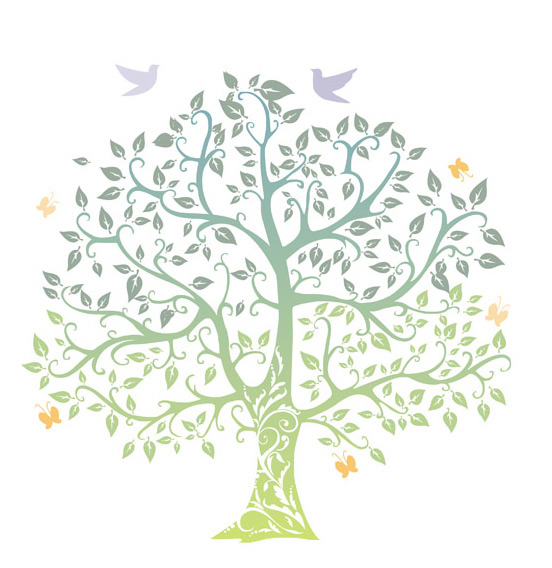
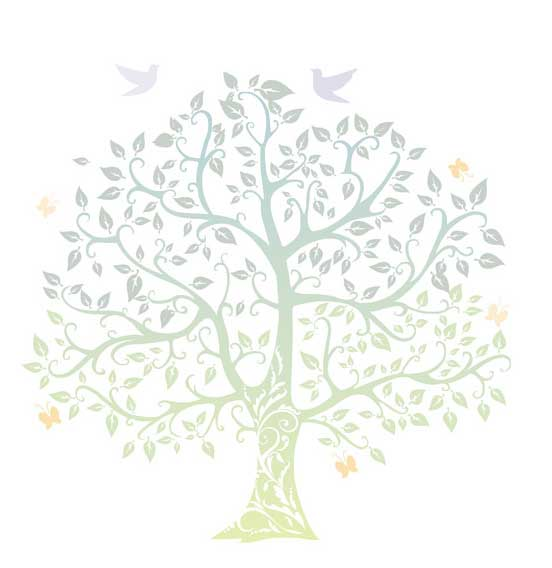
调整后记背景图片

diff --git a/javascript/bootstrap.min.js b/javascript/bootstrap.min.js
@@ -1,0 +1,7 @@
+/*!
+ * Bootstrap v3.3.6 (http://getbootstrap.com)
+ * Copyright 2011-2015 Twitter, Inc.
+ * Licensed under the MIT license
+ */
+if("undefined"==typeof jQuery)throw new Error("Bootstrap's JavaScript requires jQuery");+function(a){"use strict";var b=a.fn.jquery.split(" ")[0].split(".");if(b[0]<2&&b[1]<9||1==b[0]&&9==b[1]&&b[2]<1||b[0]>2)throw new Error("Bootstrap's JavaScript requires jQuery version 1.9.1 or higher, but lower than version 3")}(jQuery),+function(a){"use strict";function b(){var a=document.createElement("bootstrap"),b={WebkitTransition:"webkitTransitionEnd",MozTransition:"transitionend",OTransition:"oTransitionEnd otransitionend",transition:"transitionend"};for(var c in b)if(void 0!==a.style[c])return{end:b[c]};return!1}a.fn.emulateTransitionEnd=function(b){var c=!1,d=this;a(this).one("bsTransitionEnd",function(){c=!0});var e=function(){c||a(d).trigger(a.support.transition.end)};return setTimeout(e,b),this},a(function(){a.support.transition=b(),a.support.transition&&(a.event.special.bsTransitionEnd={bindType:a.support.transition.end,delegateType:a.support.transition.end,handle:function(b){return a(b.target).is(this)?b.handleObj.handler.apply(this,arguments):void 0}})})}(jQuery),+function(a){"use strict";function b(b){return this.each(function(){var c=a(this),e=c.data("bs.alert");e||c.data("bs.alert",e=new d(this)),"string"==typeof b&&e[b].call(c)})}var c='[data-dismiss="alert"]',d=function(b){a(b).on("click",c,this.close)};d.VERSION="3.3.6",d.TRANSITION_DURATION=150,d.prototype.close=function(b){function c(){g.detach().trigger("closed.bs.alert").remove()}var e=a(this),f=e.attr("data-target");f||(f=e.attr("href"),f=f&&f.replace(/.*(?=#[^\s]*$)/,""));var g=a(f);b&&b.preventDefault(),g.length||(g=e.closest(".alert")),g.trigger(b=a.Event("close.bs.alert")),b.isDefaultPrevented()||(g.removeClass("in"),a.support.transition&&g.hasClass("fade")?g.one("bsTransitionEnd",c).emulateTransitionEnd(d.TRANSITION_DURATION):c())};var e=a.fn.alert;a.fn.alert=b,a.fn.alert.Constructor=d,a.fn.alert.noConflict=function(){return a.fn.alert=e,this},a(document).on("click.bs.alert.data-api",c,d.prototype.close)}(jQuery),+function(a){"use strict";function b(b){return this.each(function(){var d=a(this),e=d.data("bs.button"),f="object"==typeof b&&b;e||d.data("bs.button",e=new c(this,f)),"toggle"==b?e.toggle():b&&e.setState(b)})}var c=function(b,d){this.$element=a(b),this.options=a.extend({},c.DEFAULTS,d),this.isLoading=!1};c.VERSION="3.3.6",c.DEFAULTS={loadingText:"loading..."},c.prototype.setState=function(b){var c="disabled",d=this.$element,e=d.is("input")?"val":"html",f=d.data();b+="Text",null==f.resetText&&d.data("resetText",d[e]()),setTimeout(a.proxy(function(){d[e](null==f[b]?this.options[b]:f[b]),"loadingText"==b?(this.isLoading=!0,d.addClass(c).attr(c,c)):this.isLoading&&(this.isLoading=!1,d.removeClass(c).removeAttr(c))},this),0)},c.prototype.toggle=function(){var a=!0,b=this.$element.closest('[data-toggle="buttons"]');if(b.length){var c=this.$element.find("input");"radio"==c.prop("type")?(c.prop("checked")&&(a=!1),b.find(".active").removeClass("active"),this.$element.addClass("active")):"checkbox"==c.prop("type")&&(c.prop("checked")!==this.$element.hasClass("active")&&(a=!1),this.$element.toggleClass("active")),c.prop("checked",this.$element.hasClass("active")),a&&c.trigger("change")}else this.$element.attr("aria-pressed",!this.$element.hasClass("active")),this.$element.toggleClass("active")};var d=a.fn.button;a.fn.button=b,a.fn.button.Constructor=c,a.fn.button.noConflict=function(){return a.fn.button=d,this},a(document).on("click.bs.button.data-api",'[data-toggle^="button"]',function(c){var d=a(c.target);d.hasClass("btn")||(d=d.closest(".btn")),b.call(d,"toggle"),a(c.target).is('input[type="radio"]')||a(c.target).is('input[type="checkbox"]')||c.preventDefault()}).on("focus.bs.button.data-api blur.bs.button.data-api",'[data-toggle^="button"]',function(b){a(b.target).closest(".btn").toggleClass("focus",/^focus(in)?$/.test(b.type))})}(jQuery),+function(a){"use strict";function b(b){return this.each(function(){var d=a(this),e=d.data("bs.carousel"),f=a.extend({},c.DEFAULTS,d.data(),"object"==typeof b&&b),g="string"==typeof b?b:f.slide;e||d.data("bs.carousel",e=new c(this,f)),"number"==typeof b?e.to(b):g?e[g]():f.interval&&e.pause().cycle()})}var c=function(b,c){this.$element=a(b),this.$indicators=this.$element.find(".carousel-indicators"),this.options=c,this.paused=null,this.sliding=null,this.interval=null,this.$active=null,this.$items=null,this.options.keyboard&&this.$element.on("keydown.bs.carousel",a.proxy(this.keydown,this)),"hover"==this.options.pause&&!("ontouchstart"in document.documentElement)&&this.$element.on("mouseenter.bs.carousel",a.proxy(this.pause,this)).on("mouseleave.bs.carousel",a.proxy(this.cycle,this))};c.VERSION="3.3.6",c.TRANSITION_DURATION=600,c.DEFAULTS={interval:5e3,pause:"hover",wrap:!0,keyboard:!0},c.prototype.keydown=function(a){if(!/input|textarea/i.test(a.target.tagName)){switch(a.which){case 37:this.prev();break;case 39:this.next();break;default:return}a.preventDefault()}},c.prototype.cycle=function(b){return b||(this.paused=!1),this.interval&&clearInterval(this.interval),this.options.interval&&!this.paused&&(this.interval=setInterval(a.proxy(this.next,this),this.options.interval)),this},c.prototype.getItemIndex=function(a){return this.$items=a.parent().children(".item"),this.$items.index(a||this.$active)},c.prototype.getItemForDirection=function(a,b){var c=this.getItemIndex(b),d="prev"==a&&0===c||"next"==a&&c==this.$items.length-1;if(d&&!this.options.wrap)return b;var e="prev"==a?-1:1,f=(c+e)%this.$items.length;return this.$items.eq(f)},c.prototype.to=function(a){var b=this,c=this.getItemIndex(this.$active=this.$element.find(".item.active"));return a>this.$items.length-1||0>a?void 0:this.sliding?this.$element.one("slid.bs.carousel",function(){b.to(a)}):c==a?this.pause().cycle():this.slide(a>c?"next":"prev",this.$items.eq(a))},c.prototype.pause=function(b){return b||(this.paused=!0),this.$element.find(".next, .prev").length&&a.support.transition&&(this.$element.trigger(a.support.transition.end),this.cycle(!0)),this.interval=clearInterval(this.interval),this},c.prototype.next=function(){return this.sliding?void 0:this.slide("next")},c.prototype.prev=function(){return this.sliding?void 0:this.slide("prev")},c.prototype.slide=function(b,d){var e=this.$element.find(".item.active"),f=d||this.getItemForDirection(b,e),g=this.interval,h="next"==b?"left":"right",i=this;if(f.hasClass("active"))return this.sliding=!1;var j=f[0],k=a.Event("slide.bs.carousel",{relatedTarget:j,direction:h});if(this.$element.trigger(k),!k.isDefaultPrevented()){if(this.sliding=!0,g&&this.pause(),this.$indicators.length){this.$indicators.find(".active").removeClass("active");var l=a(this.$indicators.children()[this.getItemIndex(f)]);l&&l.addClass("active")}var m=a.Event("slid.bs.carousel",{relatedTarget:j,direction:h});return a.support.transition&&this.$element.hasClass("slide")?(f.addClass(b),f[0].offsetWidth,e.addClass(h),f.addClass(h),e.one("bsTransitionEnd",function(){f.removeClass([b,h].join(" ")).addClass("active"),e.removeClass(["active",h].join(" ")),i.sliding=!1,setTimeout(function(){i.$element.trigger(m)},0)}).emulateTransitionEnd(c.TRANSITION_DURATION)):(e.removeClass("active"),f.addClass("active"),this.sliding=!1,this.$element.trigger(m)),g&&this.cycle(),this}};var d=a.fn.carousel;a.fn.carousel=b,a.fn.carousel.Constructor=c,a.fn.carousel.noConflict=function(){return a.fn.carousel=d,this};var e=function(c){var d,e=a(this),f=a(e.attr("data-target")||(d=e.attr("href"))&&d.replace(/.*(?=#[^\s]+$)/,""));if(f.hasClass("carousel")){var g=a.extend({},f.data(),e.data()),h=e.attr("data-slide-to");h&&(g.interval=!1),b.call(f,g),h&&f.data("bs.carousel").to(h),c.preventDefault()}};a(document).on("click.bs.carousel.data-api","[data-slide]",e).on("click.bs.carousel.data-api","[data-slide-to]",e),a(window).on("load",function(){a('[data-ride="carousel"]').each(function(){var c=a(this);b.call(c,c.data())})})}(jQuery),+function(a){"use strict";function b(b){var c,d=b.attr("data-target")||(c=b.attr("href"))&&c.replace(/.*(?=#[^\s]+$)/,"");return a(d)}function c(b){return this.each(function(){var c=a(this),e=c.data("bs.collapse"),f=a.extend({},d.DEFAULTS,c.data(),"object"==typeof b&&b);!e&&f.toggle&&/show|hide/.test(b)&&(f.toggle=!1),e||c.data("bs.collapse",e=new d(this,f)),"string"==typeof b&&e[b]()})}var d=function(b,c){this.$element=a(b),this.options=a.extend({},d.DEFAULTS,c),this.$trigger=a('[data-toggle="collapse"][href="#'+b.id+'"],[data-toggle="collapse"][data-target="#'+b.id+'"]'),this.transitioning=null,this.options.parent?this.$parent=this.getParent():this.addAriaAndCollapsedClass(this.$element,this.$trigger),this.options.toggle&&this.toggle()};d.VERSION="3.3.6",d.TRANSITION_DURATION=350,d.DEFAULTS={toggle:!0},d.prototype.dimension=function(){var a=this.$element.hasClass("width");return a?"width":"height"},d.prototype.show=function(){if(!this.transitioning&&!this.$element.hasClass("in")){var b,e=this.$parent&&this.$parent.children(".panel").children(".in, .collapsing");if(!(e&&e.length&&(b=e.data("bs.collapse"),b&&b.transitioning))){var f=a.Event("show.bs.collapse");if(this.$element.trigger(f),!f.isDefaultPrevented()){e&&e.length&&(c.call(e,"hide"),b||e.data("bs.collapse",null));var g=this.dimension();this.$element.removeClass("collapse").addClass("collapsing")[g](0).attr("aria-expanded",!0),this.$trigger.removeClass("collapsed").attr("aria-expanded",!0),this.transitioning=1;var h=function(){this.$element.removeClass("collapsing").addClass("collapse in")[g](""),this.transitioning=0,this.$element.trigger("shown.bs.collapse")};if(!a.support.transition)return h.call(this);var i=a.camelCase(["scroll",g].join("-"));this.$element.one("bsTransitionEnd",a.proxy(h,this)).emulateTransitionEnd(d.TRANSITION_DURATION)[g](this.$element[0][i])}}}},d.prototype.hide=function(){if(!this.transitioning&&this.$element.hasClass("in")){var b=a.Event("hide.bs.collapse");if(this.$element.trigger(b),!b.isDefaultPrevented()){var c=this.dimension();this.$element[c](this.$element[c]())[0].offsetHeight,this.$element.addClass("collapsing").removeClass("collapse in").attr("aria-expanded",!1),this.$trigger.addClass("collapsed").attr("aria-expanded",!1),this.transitioning=1;var e=function(){this.transitioning=0,this.$element.removeClass("collapsing").addClass("collapse").trigger("hidden.bs.collapse")};return a.support.transition?void this.$element[c](0).one("bsTransitionEnd",a.proxy(e,this)).emulateTransitionEnd(d.TRANSITION_DURATION):e.call(this)}}},d.prototype.toggle=function(){this[this.$element.hasClass("in")?"hide":"show"]()},d.prototype.getParent=function(){return a(this.options.parent).find('[data-toggle="collapse"][data-parent="'+this.options.parent+'"]').each(a.proxy(function(c,d){var e=a(d);this.addAriaAndCollapsedClass(b(e),e)},this)).end()},d.prototype.addAriaAndCollapsedClass=function(a,b){var c=a.hasClass("in");a.attr("aria-expanded",c),b.toggleClass("collapsed",!c).attr("aria-expanded",c)};var e=a.fn.collapse;a.fn.collapse=c,a.fn.collapse.Constructor=d,a.fn.collapse.noConflict=function(){return a.fn.collapse=e,this},a(document).on("click.bs.collapse.data-api",'[data-toggle="collapse"]',function(d){var e=a(this);e.attr("data-target")||d.preventDefault();var f=b(e),g=f.data("bs.collapse"),h=g?"toggle":e.data();c.call(f,h)})}(jQuery),+function(a){"use strict";function b(b){var c=b.attr("data-target");c||(c=b.attr("href"),c=c&&/#[A-Za-z]/.test(c)&&c.replace(/.*(?=#[^\s]*$)/,""));var d=c&&a(c);return d&&d.length?d:b.parent()}function c(c){c&&3===c.which||(a(e).remove(),a(f).each(function(){var d=a(this),e=b(d),f={relatedTarget:this};e.hasClass("open")&&(c&&"click"==c.type&&/input|textarea/i.test(c.target.tagName)&&a.contains(e[0],c.target)||(e.trigger(c=a.Event("hide.bs.dropdown",f)),c.isDefaultPrevented()||(d.attr("aria-expanded","false"),e.removeClass("open").trigger(a.Event("hidden.bs.dropdown",f)))))}))}function d(b){return this.each(function(){var c=a(this),d=c.data("bs.dropdown");d||c.data("bs.dropdown",d=new g(this)),"string"==typeof b&&d[b].call(c)})}var e=".dropdown-backdrop",f='[data-toggle="dropdown"]',g=function(b){a(b).on("click.bs.dropdown",this.toggle)};g.VERSION="3.3.6",g.prototype.toggle=function(d){var e=a(this);if(!e.is(".disabled, :disabled")){var f=b(e),g=f.hasClass("open");if(c(),!g){"ontouchstart"in document.documentElement&&!f.closest(".navbar-nav").length&&a(document.createElement("div")).addClass("dropdown-backdrop").insertAfter(a(this)).on("click",c);var h={relatedTarget:this};if(f.trigger(d=a.Event("show.bs.dropdown",h)),d.isDefaultPrevented())return;e.trigger("focus").attr("aria-expanded","true"),f.toggleClass("open").trigger(a.Event("shown.bs.dropdown",h))}return!1}},g.prototype.keydown=function(c){if(/(38|40|27|32)/.test(c.which)&&!/input|textarea/i.test(c.target.tagName)){var d=a(this);if(c.preventDefault(),c.stopPropagation(),!d.is(".disabled, :disabled")){var e=b(d),g=e.hasClass("open");if(!g&&27!=c.which||g&&27==c.which)return 27==c.which&&e.find(f).trigger("focus"),d.trigger("click");var h=" li:not(.disabled):visible a",i=e.find(".dropdown-menu"+h);if(i.length){var j=i.index(c.target);38==c.which&&j>0&&j--,40==c.which&&j<i.length-1&&j++,~j||(j=0),i.eq(j).trigger("focus")}}}};var h=a.fn.dropdown;a.fn.dropdown=d,a.fn.dropdown.Constructor=g,a.fn.dropdown.noConflict=function(){return a.fn.dropdown=h,this},a(document).on("click.bs.dropdown.data-api",c).on("click.bs.dropdown.data-api",".dropdown form",function(a){a.stopPropagation()}).on("click.bs.dropdown.data-api",f,g.prototype.toggle).on("keydown.bs.dropdown.data-api",f,g.prototype.keydown).on("keydown.bs.dropdown.data-api",".dropdown-menu",g.prototype.keydown)}(jQuery),+function(a){"use strict";function b(b,d){return this.each(function(){var e=a(this),f=e.data("bs.modal"),g=a.extend({},c.DEFAULTS,e.data(),"object"==typeof b&&b);f||e.data("bs.modal",f=new c(this,g)),"string"==typeof b?f[b](d):g.show&&f.show(d)})}var c=function(b,c){this.options=c,this.$body=a(document.body),this.$element=a(b),this.$dialog=this.$element.find(".modal-dialog"),this.$backdrop=null,this.isShown=null,this.originalBodyPad=null,this.scrollbarWidth=0,this.ignoreBackdropClick=!1,this.options.remote&&this.$element.find(".modal-content").load(this.options.remote,a.proxy(function(){this.$element.trigger("loaded.bs.modal")},this))};c.VERSION="3.3.6",c.TRANSITION_DURATION=300,c.BACKDROP_TRANSITION_DURATION=150,c.DEFAULTS={backdrop:!0,keyboard:!0,show:!0},c.prototype.toggle=function(a){return this.isShown?this.hide():this.show(a)},c.prototype.show=function(b){var d=this,e=a.Event("show.bs.modal",{relatedTarget:b});this.$element.trigger(e),this.isShown||e.isDefaultPrevented()||(this.isShown=!0,this.checkScrollbar(),this.setScrollbar(),this.$body.addClass("modal-open"),this.escape(),this.resize(),this.$element.on("click.dismiss.bs.modal",'[data-dismiss="modal"]',a.proxy(this.hide,this)),this.$dialog.on("mousedown.dismiss.bs.modal",function(){d.$element.one("mouseup.dismiss.bs.modal",function(b){a(b.target).is(d.$element)&&(d.ignoreBackdropClick=!0)})}),this.backdrop(function(){var e=a.support.transition&&d.$element.hasClass("fade");d.$element.parent().length||d.$element.appendTo(d.$body),d.$element.show().scrollTop(0),d.adjustDialog(),e&&d.$element[0].offsetWidth,d.$element.addClass("in"),d.enforceFocus();var f=a.Event("shown.bs.modal",{relatedTarget:b});e?d.$dialog.one("bsTransitionEnd",function(){d.$element.trigger("focus").trigger(f)}).emulateTransitionEnd(c.TRANSITION_DURATION):d.$element.trigger("focus").trigger(f)}))},c.prototype.hide=function(b){b&&b.preventDefault(),b=a.Event("hide.bs.modal"),this.$element.trigger(b),this.isShown&&!b.isDefaultPrevented()&&(this.isShown=!1,this.escape(),this.resize(),a(document).off("focusin.bs.modal"),this.$element.removeClass("in").off("click.dismiss.bs.modal").off("mouseup.dismiss.bs.modal"),this.$dialog.off("mousedown.dismiss.bs.modal"),a.support.transition&&this.$element.hasClass("fade")?this.$element.one("bsTransitionEnd",a.proxy(this.hideModal,this)).emulateTransitionEnd(c.TRANSITION_DURATION):this.hideModal())},c.prototype.enforceFocus=function(){a(document).off("focusin.bs.modal").on("focusin.bs.modal",a.proxy(function(a){this.$element[0]===a.target||this.$element.has(a.target).length||this.$element.trigger("focus")},this))},c.prototype.escape=function(){this.isShown&&this.options.keyboard?this.$element.on("keydown.dismiss.bs.modal",a.proxy(function(a){27==a.which&&this.hide()},this)):this.isShown||this.$element.off("keydown.dismiss.bs.modal")},c.prototype.resize=function(){this.isShown?a(window).on("resize.bs.modal",a.proxy(this.handleUpdate,this)):a(window).off("resize.bs.modal")},c.prototype.hideModal=function(){var a=this;this.$element.hide(),this.backdrop(function(){a.$body.removeClass("modal-open"),a.resetAdjustments(),a.resetScrollbar(),a.$element.trigger("hidden.bs.modal")})},c.prototype.removeBackdrop=function(){this.$backdrop&&this.$backdrop.remove(),this.$backdrop=null},c.prototype.backdrop=function(b){var d=this,e=this.$element.hasClass("fade")?"fade":"";if(this.isShown&&this.options.backdrop){var f=a.support.transition&&e;if(this.$backdrop=a(document.createElement("div")).addClass("modal-backdrop "+e).appendTo(this.$body),this.$element.on("click.dismiss.bs.modal",a.proxy(function(a){return this.ignoreBackdropClick?void(this.ignoreBackdropClick=!1):void(a.target===a.currentTarget&&("static"==this.options.backdrop?this.$element[0].focus():this.hide()))},this)),f&&this.$backdrop[0].offsetWidth,this.$backdrop.addClass("in"),!b)return;f?this.$backdrop.one("bsTransitionEnd",b).emulateTransitionEnd(c.BACKDROP_TRANSITION_DURATION):b()}else if(!this.isShown&&this.$backdrop){this.$backdrop.removeClass("in");var g=function(){d.removeBackdrop(),b&&b()};a.support.transition&&this.$element.hasClass("fade")?this.$backdrop.one("bsTransitionEnd",g).emulateTransitionEnd(c.BACKDROP_TRANSITION_DURATION):g()}else b&&b()},c.prototype.handleUpdate=function(){this.adjustDialog()},c.prototype.adjustDialog=function(){var a=this.$element[0].scrollHeight>document.documentElement.clientHeight;this.$element.css({paddingLeft:!this.bodyIsOverflowing&&a?this.scrollbarWidth:"",paddingRight:this.bodyIsOverflowing&&!a?this.scrollbarWidth:""})},c.prototype.resetAdjustments=function(){this.$element.css({paddingLeft:"",paddingRight:""})},c.prototype.checkScrollbar=function(){var a=window.innerWidth;if(!a){var b=document.documentElement.getBoundingClientRect();a=b.right-Math.abs(b.left)}this.bodyIsOverflowing=document.body.clientWidth<a,this.scrollbarWidth=this.measureScrollbar()},c.prototype.setScrollbar=function(){var a=parseInt(this.$body.css("padding-right")||0,10);this.originalBodyPad=document.body.style.paddingRight||"",this.bodyIsOverflowing&&this.$body.css("padding-right",a+this.scrollbarWidth)},c.prototype.resetScrollbar=function(){this.$body.css("padding-right",this.originalBodyPad)},c.prototype.measureScrollbar=function(){var a=document.createElement("div");a.className="modal-scrollbar-measure",this.$body.append(a);var b=a.offsetWidth-a.clientWidth;return this.$body[0].removeChild(a),b};var d=a.fn.modal;a.fn.modal=b,a.fn.modal.Constructor=c,a.fn.modal.noConflict=function(){return a.fn.modal=d,this},a(document).on("click.bs.modal.data-api",'[data-toggle="modal"]',function(c){var d=a(this),e=d.attr("href"),f=a(d.attr("data-target")||e&&e.replace(/.*(?=#[^\s]+$)/,"")),g=f.data("bs.modal")?"toggle":a.extend({remote:!/#/.test(e)&&e},f.data(),d.data());d.is("a")&&c.preventDefault(),f.one("show.bs.modal",function(a){a.isDefaultPrevented()||f.one("hidden.bs.modal",function(){d.is(":visible")&&d.trigger("focus")})}),b.call(f,g,this)})}(jQuery),+function(a){"use strict";function b(b){return this.each(function(){var d=a(this),e=d.data("bs.tooltip"),f="object"==typeof b&&b;(e||!/destroy|hide/.test(b))&&(e||d.data("bs.tooltip",e=new c(this,f)),"string"==typeof b&&e[b]())})}var c=function(a,b){this.type=null,this.options=null,this.enabled=null,this.timeout=null,this.hoverState=null,this.$element=null,this.inState=null,this.init("tooltip",a,b)};c.VERSION="3.3.6",c.TRANSITION_DURATION=150,c.DEFAULTS={animation:!0,placement:"top",selector:!1,template:'<div class="tooltip" role="tooltip"><div class="tooltip-arrow"></div><div class="tooltip-inner"></div></div>',trigger:"hover focus",title:"",delay:0,html:!1,container:!1,viewport:{selector:"body",padding:0}},c.prototype.init=function(b,c,d){if(this.enabled=!0,this.type=b,this.$element=a(c),this.options=this.getOptions(d),this.$viewport=this.options.viewport&&a(a.isFunction(this.options.viewport)?this.options.viewport.call(this,this.$element):this.options.viewport.selector||this.options.viewport),this.inState={click:!1,hover:!1,focus:!1},this.$element[0]instanceof document.constructor&&!this.options.selector)throw new Error("`selector` option must be specified when initializing "+this.type+" on the window.document object!");for(var e=this.options.trigger.split(" "),f=e.length;f--;){var g=e[f];if("click"==g)this.$element.on("click."+this.type,this.options.selector,a.proxy(this.toggle,this));else if("manual"!=g){var h="hover"==g?"mouseenter":"focusin",i="hover"==g?"mouseleave":"focusout";this.$element.on(h+"."+this.type,this.options.selector,a.proxy(this.enter,this)),this.$element.on(i+"."+this.type,this.options.selector,a.proxy(this.leave,this))}}this.options.selector?this._options=a.extend({},this.options,{trigger:"manual",selector:""}):this.fixTitle()},c.prototype.getDefaults=function(){return c.DEFAULTS},c.prototype.getOptions=function(b){return b=a.extend({},this.getDefaults(),this.$element.data(),b),b.delay&&"number"==typeof b.delay&&(b.delay={show:b.delay,hide:b.delay}),b},c.prototype.getDelegateOptions=function(){var b={},c=this.getDefaults();return this._options&&a.each(this._options,function(a,d){c[a]!=d&&(b[a]=d)}),b},c.prototype.enter=function(b){var c=b instanceof this.constructor?b:a(b.currentTarget).data("bs."+this.type);return c||(c=new this.constructor(b.currentTarget,this.getDelegateOptions()),a(b.currentTarget).data("bs."+this.type,c)),b instanceof a.Event&&(c.inState["focusin"==b.type?"focus":"hover"]=!0),c.tip().hasClass("in")||"in"==c.hoverState?void(c.hoverState="in"):(clearTimeout(c.timeout),c.hoverState="in",c.options.delay&&c.options.delay.show?void(c.timeout=setTimeout(function(){"in"==c.hoverState&&c.show()},c.options.delay.show)):c.show())},c.prototype.isInStateTrue=function(){for(var a in this.inState)if(this.inState[a])return!0;return!1},c.prototype.leave=function(b){var c=b instanceof this.constructor?b:a(b.currentTarget).data("bs."+this.type);return c||(c=new this.constructor(b.currentTarget,this.getDelegateOptions()),a(b.currentTarget).data("bs."+this.type,c)),b instanceof a.Event&&(c.inState["focusout"==b.type?"focus":"hover"]=!1),c.isInStateTrue()?void 0:(clearTimeout(c.timeout),c.hoverState="out",c.options.delay&&c.options.delay.hide?void(c.timeout=setTimeout(function(){"out"==c.hoverState&&c.hide()},c.options.delay.hide)):c.hide())},c.prototype.show=function(){var b=a.Event("show.bs."+this.type);if(this.hasContent()&&this.enabled){this.$element.trigger(b);var d=a.contains(this.$element[0].ownerDocument.documentElement,this.$element[0]);if(b.isDefaultPrevented()||!d)return;var e=this,f=this.tip(),g=this.getUID(this.type);this.setContent(),f.attr("id",g),this.$element.attr("aria-describedby",g),this.options.animation&&f.addClass("fade");var h="function"==typeof this.options.placement?this.options.placement.call(this,f[0],this.$element[0]):this.options.placement,i=/\s?auto?\s?/i,j=i.test(h);j&&(h=h.replace(i,"")||"top"),f.detach().css({top:0,left:0,display:"block"}).addClass(h).data("bs."+this.type,this),this.options.container?f.appendTo(this.options.container):f.insertAfter(this.$element),this.$element.trigger("inserted.bs."+this.type);var k=this.getPosition(),l=f[0].offsetWidth,m=f[0].offsetHeight;if(j){var n=h,o=this.getPosition(this.$viewport);h="bottom"==h&&k.bottom+m>o.bottom?"top":"top"==h&&k.top-m<o.top?"bottom":"right"==h&&k.right+l>o.width?"left":"left"==h&&k.left-l<o.left?"right":h,f.removeClass(n).addClass(h)}var p=this.getCalculatedOffset(h,k,l,m);this.applyPlacement(p,h);var q=function(){var a=e.hoverState;e.$element.trigger("shown.bs."+e.type),e.hoverState=null,"out"==a&&e.leave(e)};a.support.transition&&this.$tip.hasClass("fade")?f.one("bsTransitionEnd",q).emulateTransitionEnd(c.TRANSITION_DURATION):q()}},c.prototype.applyPlacement=function(b,c){var d=this.tip(),e=d[0].offsetWidth,f=d[0].offsetHeight,g=parseInt(d.css("margin-top"),10),h=parseInt(d.css("margin-left"),10);isNaN(g)&&(g=0),isNaN(h)&&(h=0),b.top+=g,b.left+=h,a.offset.setOffset(d[0],a.extend({using:function(a){d.css({top:Math.round(a.top),left:Math.round(a.left)})}},b),0),d.addClass("in");var i=d[0].offsetWidth,j=d[0].offsetHeight;"top"==c&&j!=f&&(b.top=b.top+f-j);var k=this.getViewportAdjustedDelta(c,b,i,j);k.left?b.left+=k.left:b.top+=k.top;var l=/top|bottom/.test(c),m=l?2*k.left-e+i:2*k.top-f+j,n=l?"offsetWidth":"offsetHeight";d.offset(b),this.replaceArrow(m,d[0][n],l)},c.prototype.replaceArrow=function(a,b,c){this.arrow().css(c?"left":"top",50*(1-a/b)+"%").css(c?"top":"left","")},c.prototype.setContent=function(){var a=this.tip(),b=this.getTitle();a.find(".tooltip-inner")[this.options.html?"html":"text"](b),a.removeClass("fade in top bottom left right")},c.prototype.hide=function(b){function d(){"in"!=e.hoverState&&f.detach(),e.$element.removeAttr("aria-describedby").trigger("hidden.bs."+e.type),b&&b()}var e=this,f=a(this.$tip),g=a.Event("hide.bs."+this.type);return this.$element.trigger(g),g.isDefaultPrevented()?void 0:(f.removeClass("in"),a.support.transition&&f.hasClass("fade")?f.one("bsTransitionEnd",d).emulateTransitionEnd(c.TRANSITION_DURATION):d(),this.hoverState=null,this)},c.prototype.fixTitle=function(){var a=this.$element;(a.attr("title")||"string"!=typeof a.attr("data-original-title"))&&a.attr("data-original-title",a.attr("title")||"").attr("title","")},c.prototype.hasContent=function(){return this.getTitle()},c.prototype.getPosition=function(b){b=b||this.$element;var c=b[0],d="BODY"==c.tagName,e=c.getBoundingClientRect();null==e.width&&(e=a.extend({},e,{width:e.right-e.left,height:e.bottom-e.top}));var f=d?{top:0,left:0}:b.offset(),g={scroll:d?document.documentElement.scrollTop||document.body.scrollTop:b.scrollTop()},h=d?{width:a(window).width(),height:a(window).height()}:null;return a.extend({},e,g,h,f)},c.prototype.getCalculatedOffset=function(a,b,c,d){return"bottom"==a?{top:b.top+b.height,left:b.left+b.width/2-c/2}:"top"==a?{top:b.top-d,left:b.left+b.width/2-c/2}:"left"==a?{top:b.top+b.height/2-d/2,left:b.left-c}:{top:b.top+b.height/2-d/2,left:b.left+b.width}},c.prototype.getViewportAdjustedDelta=function(a,b,c,d){var e={top:0,left:0};if(!this.$viewport)return e;var f=this.options.viewport&&this.options.viewport.padding||0,g=this.getPosition(this.$viewport);if(/right|left/.test(a)){var h=b.top-f-g.scroll,i=b.top+f-g.scroll+d;h<g.top?e.top=g.top-h:i>g.top+g.height&&(e.top=g.top+g.height-i)}else{var j=b.left-f,k=b.left+f+c;j<g.left?e.left=g.left-j:k>g.right&&(e.left=g.left+g.width-k)}return e},c.prototype.getTitle=function(){var a,b=this.$element,c=this.options;return a=b.attr("data-original-title")||("function"==typeof c.title?c.title.call(b[0]):c.title)},c.prototype.getUID=function(a){do a+=~~(1e6*Math.random());while(document.getElementById(a));return a},c.prototype.tip=function(){if(!this.$tip&&(this.$tip=a(this.options.template),1!=this.$tip.length))throw new Error(this.type+" `template` option must consist of exactly 1 top-level element!");return this.$tip},c.prototype.arrow=function(){return this.$arrow=this.$arrow||this.tip().find(".tooltip-arrow")},c.prototype.enable=function(){this.enabled=!0},c.prototype.disable=function(){this.enabled=!1},c.prototype.toggleEnabled=function(){this.enabled=!this.enabled},c.prototype.toggle=function(b){var c=this;b&&(c=a(b.currentTarget).data("bs."+this.type),c||(c=new this.constructor(b.currentTarget,this.getDelegateOptions()),a(b.currentTarget).data("bs."+this.type,c))),b?(c.inState.click=!c.inState.click,c.isInStateTrue()?c.enter(c):c.leave(c)):c.tip().hasClass("in")?c.leave(c):c.enter(c)},c.prototype.destroy=function(){var a=this;clearTimeout(this.timeout),this.hide(function(){a.$element.off("."+a.type).removeData("bs."+a.type),a.$tip&&a.$tip.detach(),a.$tip=null,a.$arrow=null,a.$viewport=null})};var d=a.fn.tooltip;a.fn.tooltip=b,a.fn.tooltip.Constructor=c,a.fn.tooltip.noConflict=function(){return a.fn.tooltip=d,this}}(jQuery),+function(a){"use strict";function b(b){return this.each(function(){var d=a(this),e=d.data("bs.popover"),f="object"==typeof b&&b;(e||!/destroy|hide/.test(b))&&(e||d.data("bs.popover",e=new c(this,f)),"string"==typeof b&&e[b]())})}var c=function(a,b){this.init("popover",a,b)};if(!a.fn.tooltip)throw new Error("Popover requires tooltip.js");c.VERSION="3.3.6",c.DEFAULTS=a.extend({},a.fn.tooltip.Constructor.DEFAULTS,{placement:"right",trigger:"click",content:"",template:'<div class="popover" role="tooltip"><div class="arrow"></div><h3 class="popover-title"></h3><div class="popover-content"></div></div>'}),c.prototype=a.extend({},a.fn.tooltip.Constructor.prototype),c.prototype.constructor=c,c.prototype.getDefaults=function(){return c.DEFAULTS},c.prototype.setContent=function(){var a=this.tip(),b=this.getTitle(),c=this.getContent();a.find(".popover-title")[this.options.html?"html":"text"](b),a.find(".popover-content").children().detach().end()[this.options.html?"string"==typeof c?"html":"append":"text"](c),a.removeClass("fade top bottom left right in"),a.find(".popover-title").html()||a.find(".popover-title").hide()},c.prototype.hasContent=function(){return this.getTitle()||this.getContent()},c.prototype.getContent=function(){var a=this.$element,b=this.options;return a.attr("data-content")||("function"==typeof b.content?b.content.call(a[0]):b.content)},c.prototype.arrow=function(){return this.$arrow=this.$arrow||this.tip().find(".arrow")};var d=a.fn.popover;a.fn.popover=b,a.fn.popover.Constructor=c,a.fn.popover.noConflict=function(){return a.fn.popover=d,this}}(jQuery),+function(a){"use strict";function b(c,d){this.$body=a(document.body),this.$scrollElement=a(a(c).is(document.body)?window:c),this.options=a.extend({},b.DEFAULTS,d),this.selector=(this.options.target||"")+" .nav li > a",this.offsets=[],this.targets=[],this.activeTarget=null,this.scrollHeight=0,this.$scrollElement.on("scroll.bs.scrollspy",a.proxy(this.process,this)),this.refresh(),this.process()}function c(c){return this.each(function(){var d=a(this),e=d.data("bs.scrollspy"),f="object"==typeof c&&c;e||d.data("bs.scrollspy",e=new b(this,f)),"string"==typeof c&&e[c]()})}b.VERSION="3.3.6",b.DEFAULTS={offset:10},b.prototype.getScrollHeight=function(){return this.$scrollElement[0].scrollHeight||Math.max(this.$body[0].scrollHeight,document.documentElement.scrollHeight)},b.prototype.refresh=function(){var b=this,c="offset",d=0;this.offsets=[],this.targets=[],this.scrollHeight=this.getScrollHeight(),a.isWindow(this.$scrollElement[0])||(c="position",d=this.$scrollElement.scrollTop()),this.$body.find(this.selector).map(function(){var b=a(this),e=b.data("target")||b.attr("href"),f=/^#./.test(e)&&a(e);return f&&f.length&&f.is(":visible")&&[[f[c]().top+d,e]]||null}).sort(function(a,b){return a[0]-b[0]}).each(function(){b.offsets.push(this[0]),b.targets.push(this[1])})},b.prototype.process=function(){var a,b=this.$scrollElement.scrollTop()+this.options.offset,c=this.getScrollHeight(),d=this.options.offset+c-this.$scrollElement.height(),e=this.offsets,f=this.targets,g=this.activeTarget;if(this.scrollHeight!=c&&this.refresh(),b>=d)return g!=(a=f[f.length-1])&&this.activate(a);if(g&&b<e[0])return this.activeTarget=null,this.clear();for(a=e.length;a--;)g!=f[a]&&b>=e[a]&&(void 0===e[a+1]||b<e[a+1])&&this.activate(f[a])},b.prototype.activate=function(b){this.activeTarget=b,this.clear();var c=this.selector+'[data-target="'+b+'"],'+this.selector+'[href="'+b+'"]',d=a(c).parents("li").addClass("active");
+d.parent(".dropdown-menu").length&&(d=d.closest("li.dropdown").addClass("active")),d.trigger("activate.bs.scrollspy")},b.prototype.clear=function(){a(this.selector).parentsUntil(this.options.target,".active").removeClass("active")};var d=a.fn.scrollspy;a.fn.scrollspy=c,a.fn.scrollspy.Constructor=b,a.fn.scrollspy.noConflict=function(){return a.fn.scrollspy=d,this},a(window).on("load.bs.scrollspy.data-api",function(){a('[data-spy="scroll"]').each(function(){var b=a(this);c.call(b,b.data())})})}(jQuery),+function(a){"use strict";function b(b){return this.each(function(){var d=a(this),e=d.data("bs.tab");e||d.data("bs.tab",e=new c(this)),"string"==typeof b&&e[b]()})}var c=function(b){this.element=a(b)};c.VERSION="3.3.6",c.TRANSITION_DURATION=150,c.prototype.show=function(){var b=this.element,c=b.closest("ul:not(.dropdown-menu)"),d=b.data("target");if(d||(d=b.attr("href"),d=d&&d.replace(/.*(?=#[^\s]*$)/,"")),!b.parent("li").hasClass("active")){var e=c.find(".active:last a"),f=a.Event("hide.bs.tab",{relatedTarget:b[0]}),g=a.Event("show.bs.tab",{relatedTarget:e[0]});if(e.trigger(f),b.trigger(g),!g.isDefaultPrevented()&&!f.isDefaultPrevented()){var h=a(d);this.activate(b.closest("li"),c),this.activate(h,h.parent(),function(){e.trigger({type:"hidden.bs.tab",relatedTarget:b[0]}),b.trigger({type:"shown.bs.tab",relatedTarget:e[0]})})}}},c.prototype.activate=function(b,d,e){function f(){g.removeClass("active").find("> .dropdown-menu > .active").removeClass("active").end().find('[data-toggle="tab"]').attr("aria-expanded",!1),b.addClass("active").find('[data-toggle="tab"]').attr("aria-expanded",!0),h?(b[0].offsetWidth,b.addClass("in")):b.removeClass("fade"),b.parent(".dropdown-menu").length&&b.closest("li.dropdown").addClass("active").end().find('[data-toggle="tab"]').attr("aria-expanded",!0),e&&e()}var g=d.find("> .active"),h=e&&a.support.transition&&(g.length&&g.hasClass("fade")||!!d.find("> .fade").length);g.length&&h?g.one("bsTransitionEnd",f).emulateTransitionEnd(c.TRANSITION_DURATION):f(),g.removeClass("in")};var d=a.fn.tab;a.fn.tab=b,a.fn.tab.Constructor=c,a.fn.tab.noConflict=function(){return a.fn.tab=d,this};var e=function(c){c.preventDefault(),b.call(a(this),"show")};a(document).on("click.bs.tab.data-api",'[data-toggle="tab"]',e).on("click.bs.tab.data-api",'[data-toggle="pill"]',e)}(jQuery),+function(a){"use strict";function b(b){return this.each(function(){var d=a(this),e=d.data("bs.affix"),f="object"==typeof b&&b;e||d.data("bs.affix",e=new c(this,f)),"string"==typeof b&&e[b]()})}var c=function(b,d){this.options=a.extend({},c.DEFAULTS,d),this.$target=a(this.options.target).on("scroll.bs.affix.data-api",a.proxy(this.checkPosition,this)).on("click.bs.affix.data-api",a.proxy(this.checkPositionWithEventLoop,this)),this.$element=a(b),this.affixed=null,this.unpin=null,this.pinnedOffset=null,this.checkPosition()};c.VERSION="3.3.6",c.RESET="affix affix-top affix-bottom",c.DEFAULTS={offset:0,target:window},c.prototype.getState=function(a,b,c,d){var e=this.$target.scrollTop(),f=this.$element.offset(),g=this.$target.height();if(null!=c&&"top"==this.affixed)return c>e?"top":!1;if("bottom"==this.affixed)return null!=c?e+this.unpin<=f.top?!1:"bottom":a-d>=e+g?!1:"bottom";var h=null==this.affixed,i=h?e:f.top,j=h?g:b;return null!=c&&c>=e?"top":null!=d&&i+j>=a-d?"bottom":!1},c.prototype.getPinnedOffset=function(){if(this.pinnedOffset)return this.pinnedOffset;this.$element.removeClass(c.RESET).addClass("affix");var a=this.$target.scrollTop(),b=this.$element.offset();return this.pinnedOffset=b.top-a},c.prototype.checkPositionWithEventLoop=function(){setTimeout(a.proxy(this.checkPosition,this),1)},c.prototype.checkPosition=function(){if(this.$element.is(":visible")){var b=this.$element.height(),d=this.options.offset,e=d.top,f=d.bottom,g=Math.max(a(document).height(),a(document.body).height());"object"!=typeof d&&(f=e=d),"function"==typeof e&&(e=d.top(this.$element)),"function"==typeof f&&(f=d.bottom(this.$element));var h=this.getState(g,b,e,f);if(this.affixed!=h){null!=this.unpin&&this.$element.css("top","");var i="affix"+(h?"-"+h:""),j=a.Event(i+".bs.affix");if(this.$element.trigger(j),j.isDefaultPrevented())return;this.affixed=h,this.unpin="bottom"==h?this.getPinnedOffset():null,this.$element.removeClass(c.RESET).addClass(i).trigger(i.replace("affix","affixed")+".bs.affix")}"bottom"==h&&this.$element.offset({top:g-b-f})}};var d=a.fn.affix;a.fn.affix=b,a.fn.affix.Constructor=c,a.fn.affix.noConflict=function(){return a.fn.affix=d,this},a(window).on("load",function(){a('[data-spy="affix"]').each(function(){var c=a(this),d=c.data();d.offset=d.offset||{},null!=d.offsetBottom&&(d.offset.bottom=d.offsetBottom),null!=d.offsetTop&&(d.offset.top=d.offsetTop),b.call(c,d)})})}(jQuery);

diff --git a/index.html b/index.html
@@ -8,6 +8,7 @@
 	<link rel="stylesheet" href="styles/styles.css">
     <link rel="stylesheet" href="styles/bootstrap.css" >
     <script  type="text/javascript" src="javascript/jquery.min.js"></script>
+    <script  type="text/javascript" src="javascript/bootstrap.min.js"></script>
     <script  type="text/javascript" src="javascript/main.js"></script>  
     <link rel="icon" type="image/png" href="images/icon.png"  sizes="16*16">
 </head>
@@ -312,7 +313,7 @@
         <h2>后记</h2> 
         <div class="container">
             <div class="row">
-                <div class="col-sm-12 col-md-12 ">
+                <div class="col-sm-12 col-md-12 ps">
                     <p>几经困难，我的一个原创网页总算可以上线了。对于前端开发，我只是个刚刚入门的菜鸟，所幸的是，自己这段时间对前端的热情并没有减退，而是越来越入迷了。这个网页我花了一个多星期去搭建，好像有点慢了。上面的效果都是我自己写的，说不上纯原创，但是并没有借用任何jQuery插件去实现，因为我觉得还是自己写出来比较能展现自己的能力。我是从2015年10月才开始接触前端的，很多人会觉得，我本科毕业都已经有一份稳定的工作了，为什么还那么折腾去学一样新的东西。首先我也是慢慢工作后才发现，相比起维护，自己还是更倾向于创造，这样才更能体现自己的价值。刚开始学的时候我也会想过，现在才学会不会有点太晚了，但我相信，只要开始了，就不算太晚。正如我前面所说，种一棵树最好的时间是十年前，其次是现在。现在这棵树已经发芽了。正正需要一份实际的工作来给我充足的养分去茁壮成长。希望看到这里的你们，可以给我这个机会。</p>
                     <p>顺便给一些正在学习、或者准备学习前端的同学们分享一下自己的自学心得吧。我自己自学的渠道有很多，首先w3cshool肯定是每个前端初学者都会去的，慕课网我也已经积累了200+小时的学习时长，还有主要就是看书，目前我买了纸质版已经看过了的书有《Head first HTML & CSS》、《CSS权威指南（第三版）》、《javascript DOM编程艺术》、《javascript高级编程设计》《javascript语言精粹》、《锋利的jquery》《响应式web设计——HTML5和CSS3实战》。当然，光说不练空把式，自己在网站学习还有看书的时候都有跟着书上的练习码代码，但真正谈得上作品的，还没有。所以接下来得好好地做几个自己的作品，以增加自己找到工作的机会。</p>
                    <p>哈哈，最后看到这里的。肯定都是真爱。么么哒。</p> 

diff --git a/styles/styles.css b/styles/styles.css
@@ -408,13 +408,8 @@ transition-delay: 0.496s;
     display: none;
 }
 /*ps*/
-#ps{
-    background: url(../images/ps_bg.jpg);
-    background-repeat: no-repeat;
-    background-position: center;
-    text-align: center;
-    background-origin:content-box;
-   
+#ps{ 
+    text-align: center;  
 }
 #ps h2{
     color: #A1C947;
@@ -425,7 +420,13 @@ transition-delay: 0.496s;
     width: 300px;
     padding-bottom: 20px;
 }
-#ps p{
+.ps{
+    background: url(../images/ps_bg.jpg);
+    background-repeat: no-repeat;
+    background-position: center;
+    background-size: auto 100%;
+}
+.ps p{
     font-size: 120%;
     text-align: left;
     text-indent: 50px;
